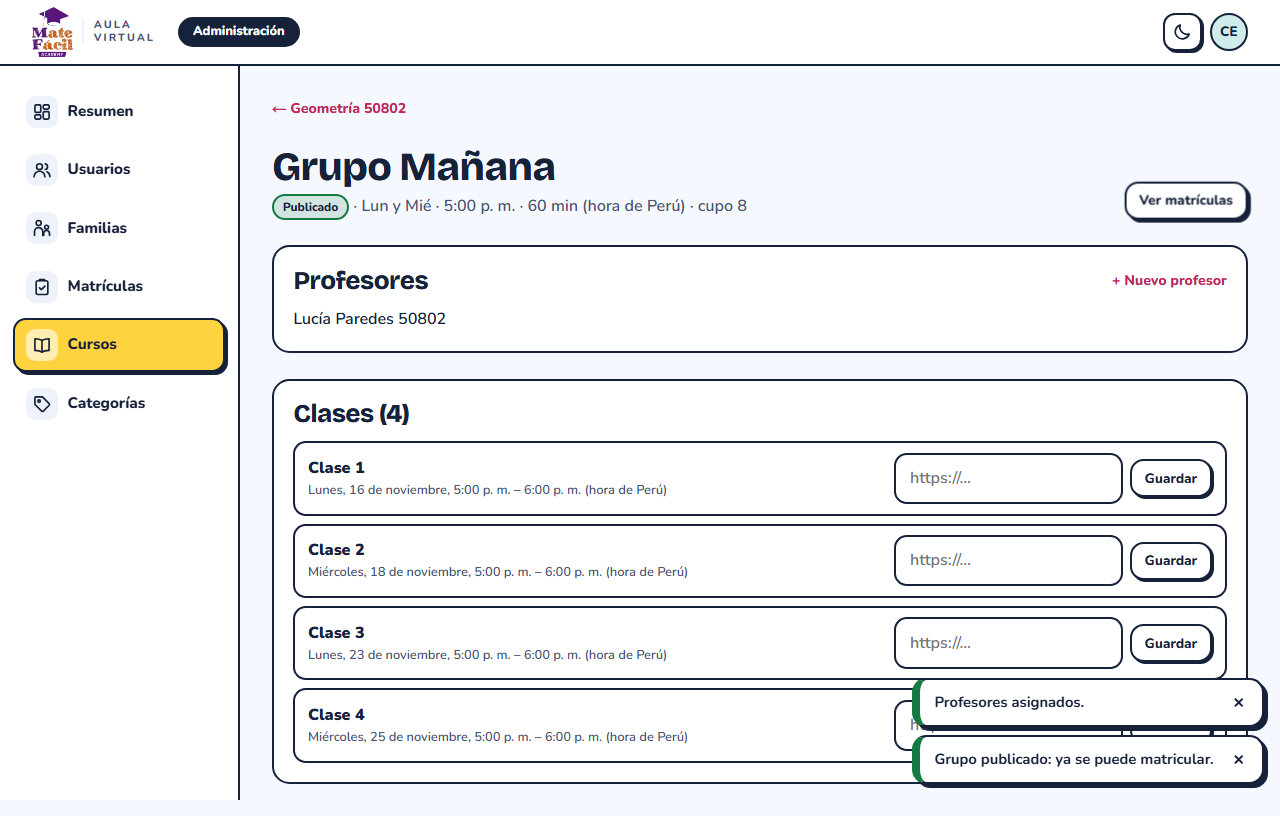
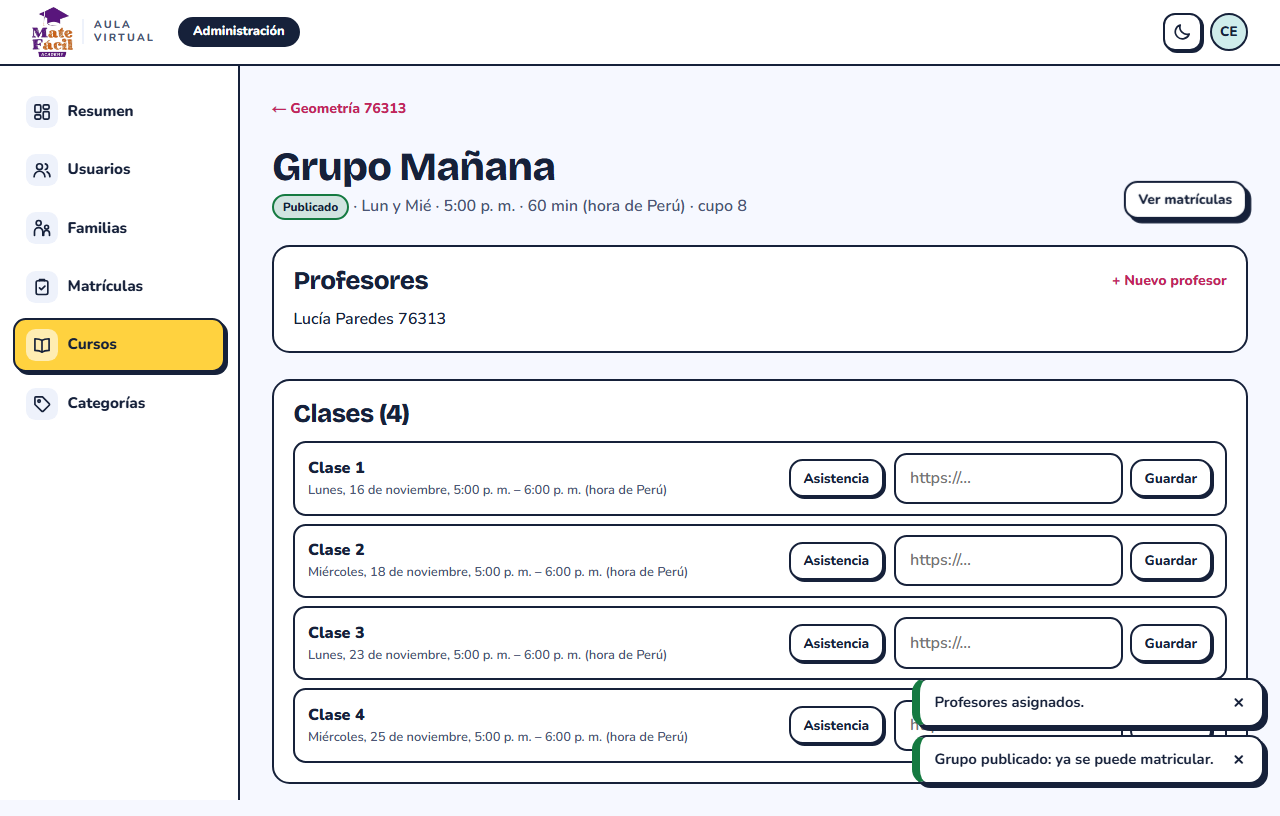
docs: capturas y resultados con asistencia (SCRUM-53)
Pantalla de asistencia en escritorio y celular, la familia con su asistencia real y los resultados de esta corrida.

diff --git a/docs/pruebas/README.md b/docs/pruebas/README.md
@@ -1,16 +1,16 @@
 # Pruebas del aula
 
-Resultados del 4 de noviembre de 2026 sobre el commit `82b89ee` de la rama `feat/scrum-67-68-familia`. Las capturas y animaciones salen de un navegador real (Microsoft Edge) con el aula conectada a la API .NET y PostgreSQL en Docker. Las personas y los correos son ficticios, y los datos de acceso aparecen difuminados.
+Resultados del 9 de noviembre de 2026 sobre el commit `e5784d3` de la rama `feat/scrum-53-55-asistencia-lecciones`. Las capturas y animaciones salen de un navegador real (Microsoft Edge) con el aula conectada a la API .NET y PostgreSQL en Docker. Las personas y los correos son ficticios, y los datos de acceso aparecen difuminados.
 
 | Prueba | Dónde corre | Resultado |
 |---|---|---|
-| Unitarias (Vitest) | En memoria | **64 de 64**, en 13 archivos |
+| Unitarias (Vitest) | En memoria | **71 de 71**, en 15 archivos |
 | Tipos (`tsc`) y lint (ESLint) | Código | Sin errores |
-| Recorrido en navegador real | Aula conectada a la API en Docker | **27 de 27** |
+| Recorrido en navegador real | Aula conectada a la API en Docker | **31 de 31** |
 | Panel de la familia con login real | Aula conectada a la API en Docker | **7 de 7** |
 | Sesión y renovación | Aula conectada a la API en Docker | **12 de 12** |
 | Contraste y desborde | Modo mock | 224 combinaciones: 0 problemas |
-| Flujos en celular y modo oscuro | Modo mock | **18 de 18** |
+| Flujos en celular y modo oscuro | Modo mock | **22 de 22** |
 
 Las dos pruebas en modo mock pasaron en Edge y en Chromium, el navegador del CI.
 
@@ -23,10 +23,12 @@ La lista completa está en [pruebas-unitarias.md](pruebas-unitarias.md). Las pru
 | Pantalla | Datos reales | Datos de ejemplo |
 |---|---|---|
 | Administración | Todo | Nada |
-| Familia | Hijos, matrículas, próximas clases y profesores | Notificación de la campana |
-| Alumno | Clases en vivo, calendario y enlace para entrar | Nombre del saludo («Valentina»), estrellas, lecciones, tareas, notas, asistencia y avisos |
+| Familia | Hijos, matrículas, próximas clases, profesores y asistencia | Notificación de la campana |
+| Alumno | Clases en vivo, calendario, enlace para entrar y asistencia | Nombre del saludo («Valentina»), estrellas, lecciones, tareas, notas y avisos |
 
 **La sesión de administrador se firmó localmente.** Se usó la clave de desarrollo de Docker, sin pasar por el formulario de ingreso. Los logins de familia y alumno sí fueron reales, por el formulario.
+
+**Las lecciones (SCRUM-55) todavía no tienen pantalla.** Su API está lista y probada (ver las pruebas del backend); la pantalla del alumno es SCRUM-56 y la carga desde el panel es SCRUM-71.
 
 **El contraste se midió solo en modo mock.** El recorrido real comprobó el desborde horizontal en celular y tablet, pero no volvió a medir el contraste.
 
@@ -82,6 +84,12 @@ Horario generado, grupo publicado y matrículas:
 
 ![Matrículas](capturas/admin-06-matriculas-escritorio.png)
 
+Asistencia de una clase (SCRUM-53): se marca toda la lista y se guarda en un solo envío.
+
+![Asistencia de una clase](capturas/admin-08-asistencia-escritorio.png)
+
+<img src="capturas/admin-09-asistencia-celular-oscuro.png" alt="Asistencia en celular, modo oscuro" width="280">
+
 Celular en modo oscuro:
 
 <img src="capturas/admin-07-resumen-celular-oscuro.png" alt="Resumen en celular" width="240"> <img src="capturas/admin-07-usuarios-celular-oscuro.png" alt="Usuarios en celular" width="240"> <img src="capturas/admin-07-cursos-celular-oscuro.png" alt="Cursos en celular" width="240"> <img src="capturas/admin-07-matriculas-celular-oscuro.png" alt="Matrículas en celular" width="240">
@@ -104,6 +112,7 @@ Inicio y clases en celular con modo oscuro. La clase real muestra «Entrar» cua
 - Publicar muestra el aviso aunque el botón desaparezca
 - Activar matrícula actualiza la fila
 - Retirar matrícula libera el cupo
+- Asistencia: se guarda la lista y el resumen la cuenta
 
 ### Administración en celular
 
@@ -112,6 +121,7 @@ Inicio y clases en celular con modo oscuro. La clase real muestra «Entrar» cua
 - /admin/cursos sin desborde horizontal
 - /admin/matriculas sin desborde horizontal
 - Ficha del curso sin desborde horizontal
+- Asistencia sin desborde horizontal
 
 ### Familia
 
@@ -119,6 +129,7 @@ Inicio y clases en celular con modo oscuro. La clase real muestra «Entrar» cua
 - La contraseña no queda escrita en la página oculta
 - Se ve a la hija con su curso y profesora reales
 - No aparecen datos de ejemplo
+- Ve la asistencia real de su hija
 - Cambiar de hijo muestra su matrícula pendiente
 - celular-oscuro sin desborde horizontal
 - tablet-oscuro sin desborde horizontal
@@ -138,6 +149,7 @@ Inicio y clases en celular con modo oscuro. La clase real muestra «Entrar» cua
 - /clases muestra el curso real
 - La clase próxima ofrece «Entrar» con su enlace
 - /clases sin desborde horizontal
+- /clases muestra su asistencia real
 
 ### Sesión
 
@@ -168,6 +180,10 @@ Inicio y clases en celular con modo oscuro. La clase real muestra «Entrar» cua
 - crear grupo lleva a su ficha
 - publicar: el grupo pasa a solo enlaces
 - sin desborde en grupo publicado
+- asistencia: una clase futura todavía está cerrada
+- asistencia: el equipo marca la clase pasada
+- asistencia: el resumen cuenta la marca
+- sin desborde en la asistencia
 - «Confirmar pago y activar» dentro de la pantalla, sin deslizar
 - activar matrícula actualiza la lista
 - retirar matrícula con confirmación

diff --git a/docs/pruebas/pruebas-unitarias.md b/docs/pruebas/pruebas-unitarias.md
@@ -1,6 +1,6 @@
 # Lista de pruebas unitarias
 
-Las 64 pruebas de Vitest, por archivo. Todas pasaron el 4 de noviembre de 2026.
+Las 71 pruebas de Vitest, por archivo. Todas pasaron el 9 de noviembre de 2026.
 
 ## `src/app/manifest.test.ts` (6)
 
@@ -10,6 +10,13 @@ Las 64 pruebas de Vitest, por archivo. Todas pasaron el 4 de noviembre de 2026.
 - manifest de la PWA → los accesos directos llevan a pantallas reales del alumno
 - service worker → solo precachea archivos que existen (si no, la instalación del SW falla entera)
 - service worker → solo toca peticiones GET del mismo origen y nunca guarda páginas (HTML autenticado)
+
+## `src/features/admin/attendance.test.ts` (4)
+
+- parseAttendanceForm → envía solo a los alumnos marcados, con su nota limpia
+- parseAttendanceForm → una nota vacía viaja como null
+- parseAttendanceForm → pide marcar al menos a un alumno
+- parseAttendanceForm → rechaza estados desconocidos, notas largas e ids alterados
 
 ## `src/features/admin/enrollments.test.ts` (3)
 
@@ -75,6 +82,12 @@ Las 64 pruebas de Vitest, por archivo. Todas pasaron el 4 de noviembre de 2026.
 - refreshTokenFrom → lee solo la cookie de renovación del backend
 - renewBackendSession → peticiones simultáneas con el mismo token hacen UNA sola renovación (el backend rota y revoca reusos)
 - renewBackendSession → distingue sesión terminada (401) de backend caído
+
+## `src/services/http/attendance.test.ts` (3)
+
+- asistencia real → conserva los totales del backend y arma cada fila
+- asistencia real → muestra la fecha en la zona horaria de quien mira
+- asistencia real → el hijo real lleva su asistencia; sin reporte queda vacío, nunca con ejemplos
 
 ## `src/services/http/family-children.test.ts` (2)
 
